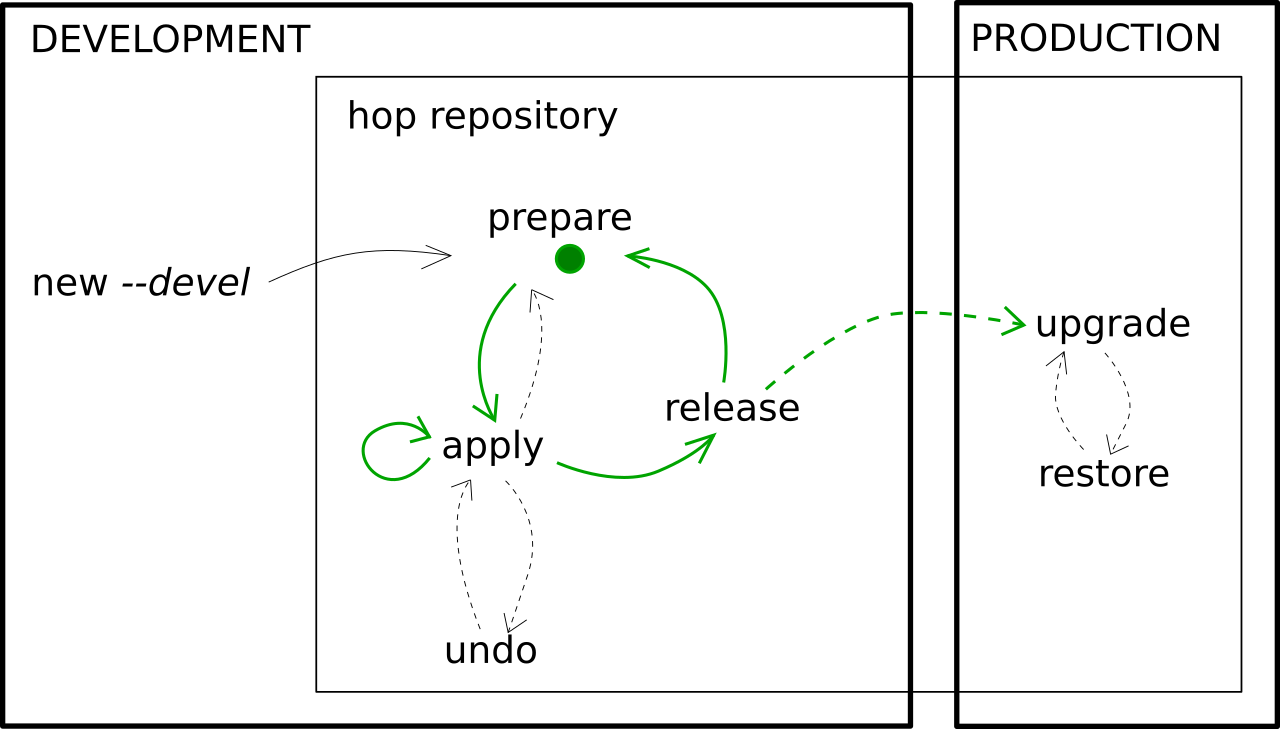
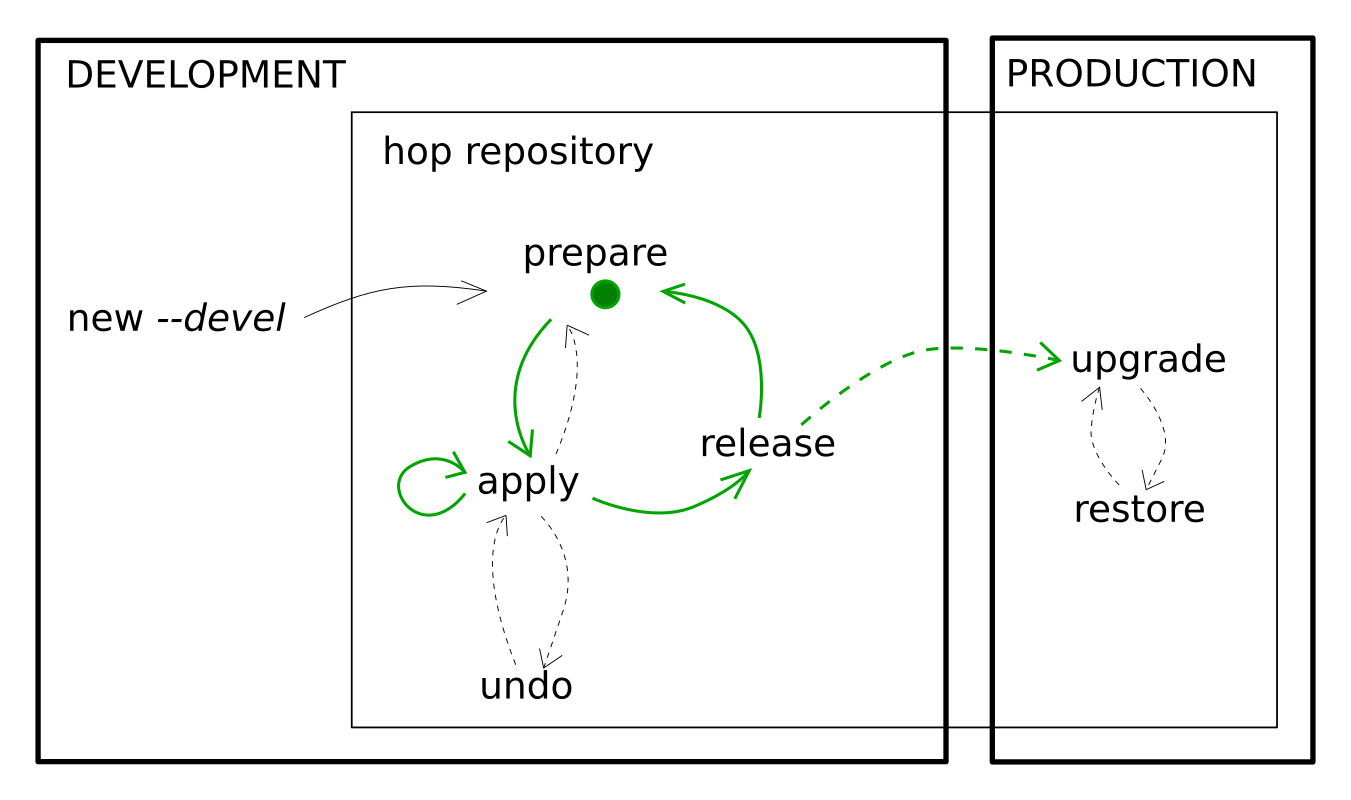
[doc] Add margin to hop_workflow png.

diff --git a/doc/hop.md b/doc/hop.md
@@ -34,9 +34,7 @@
 
 The green arrows represent the typical workflow for patching a model:
 
-<div style="background-color: white">
 <img title="hop workflow" alt="Alt text" src="https://github.com/collorg/halfORM/blob/main/doc/hop_workflow.png" style="width: 70%">
-</div>
 
 ### Inside a hop repository created **without** the option `--devel`
 
